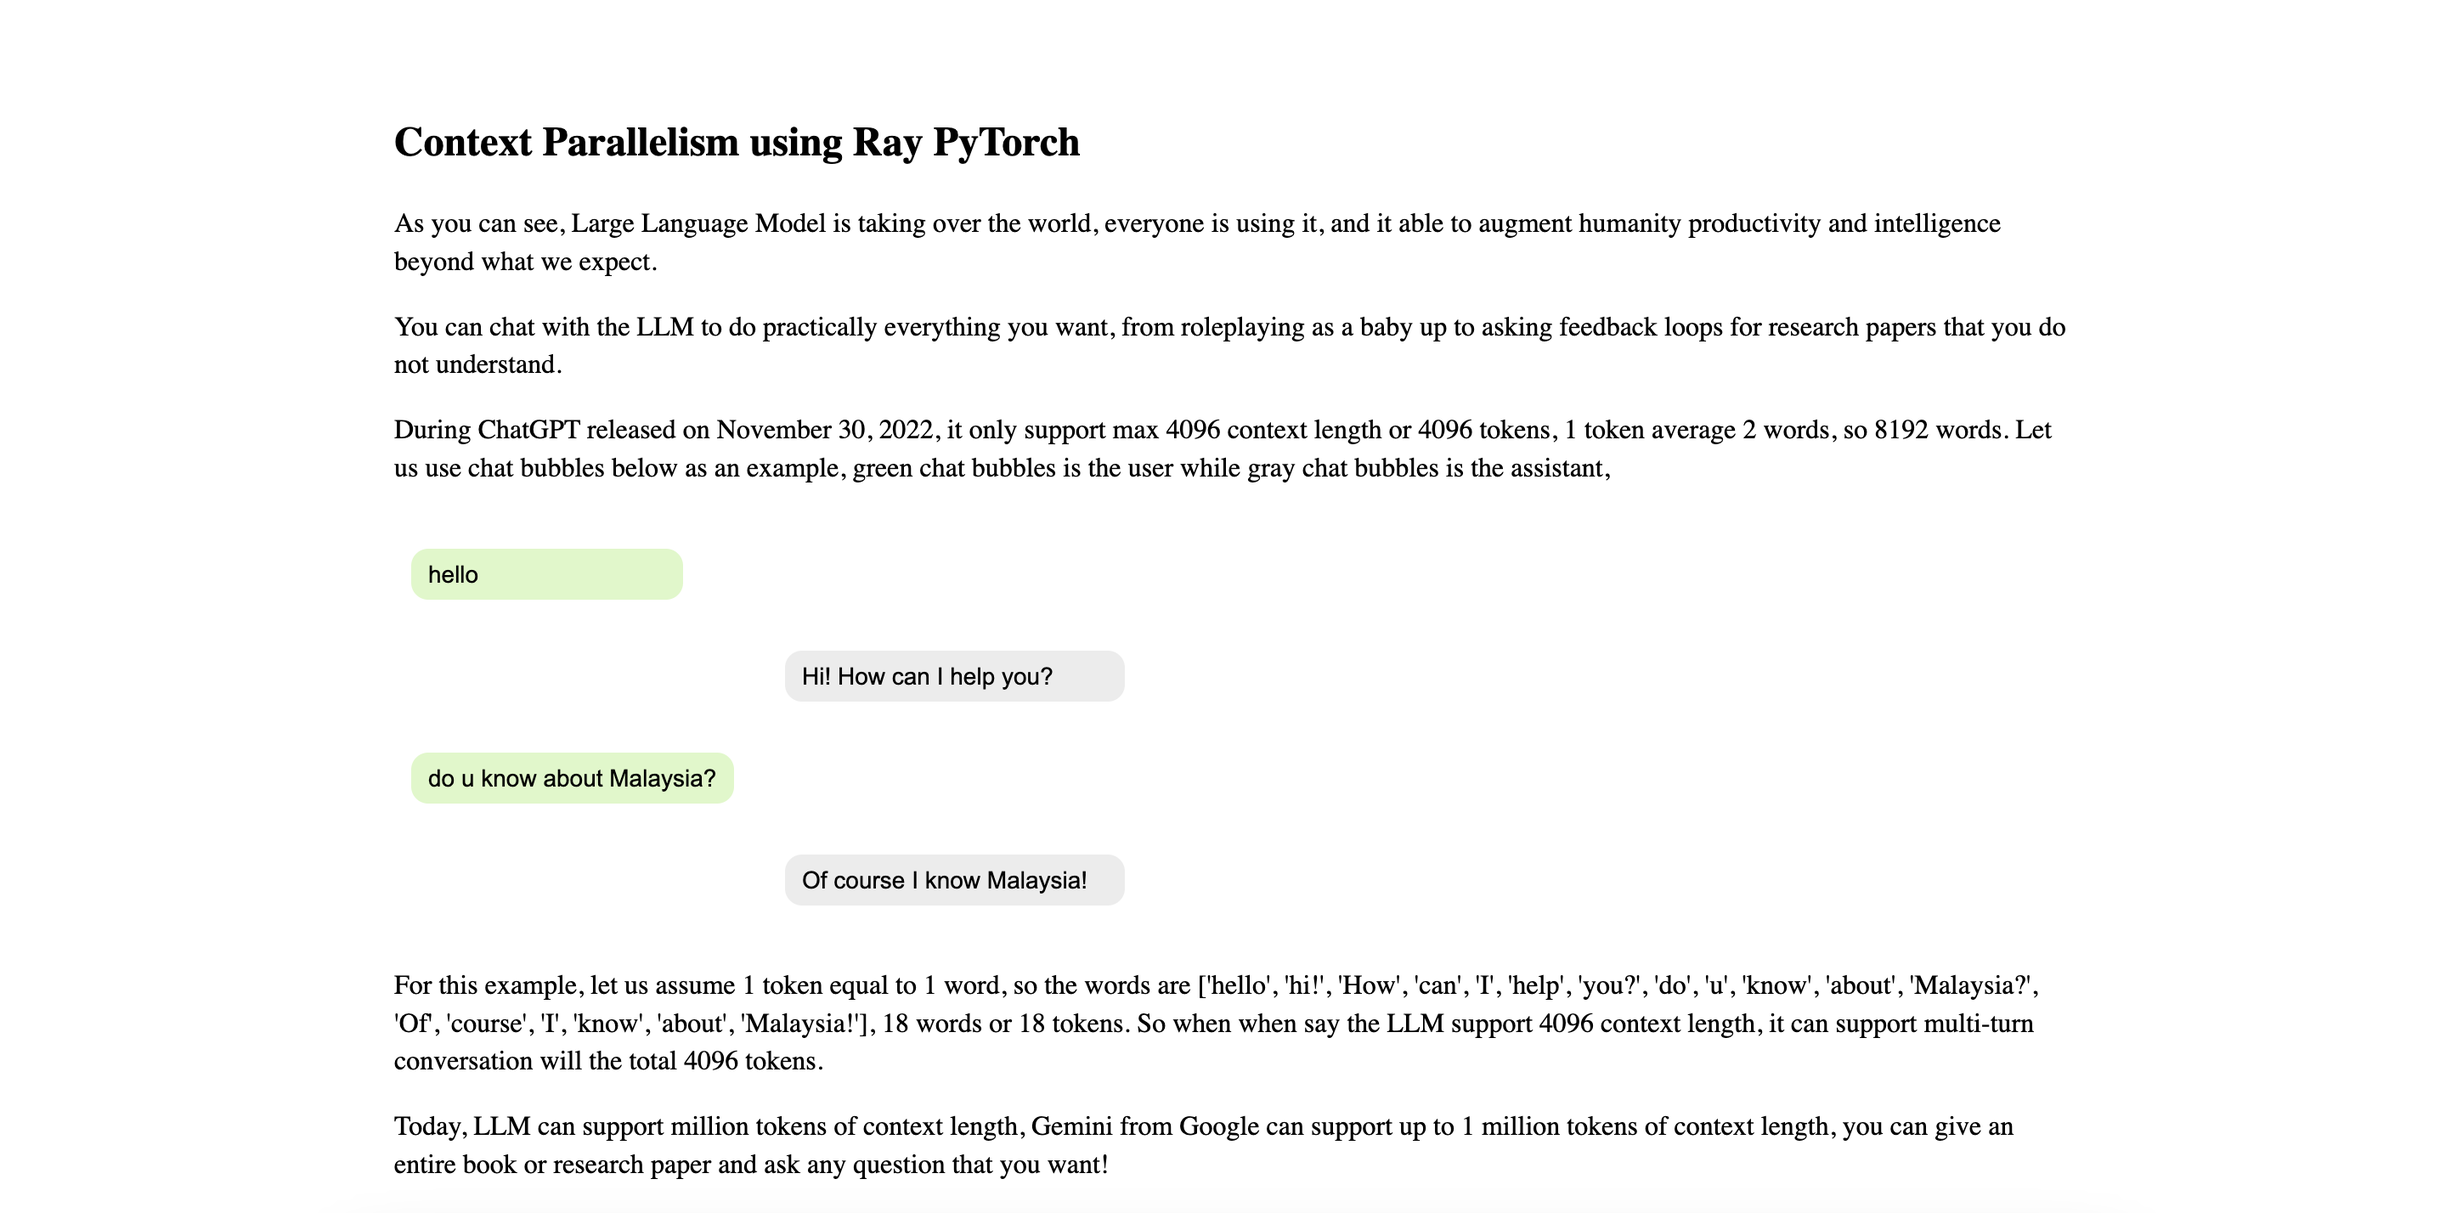
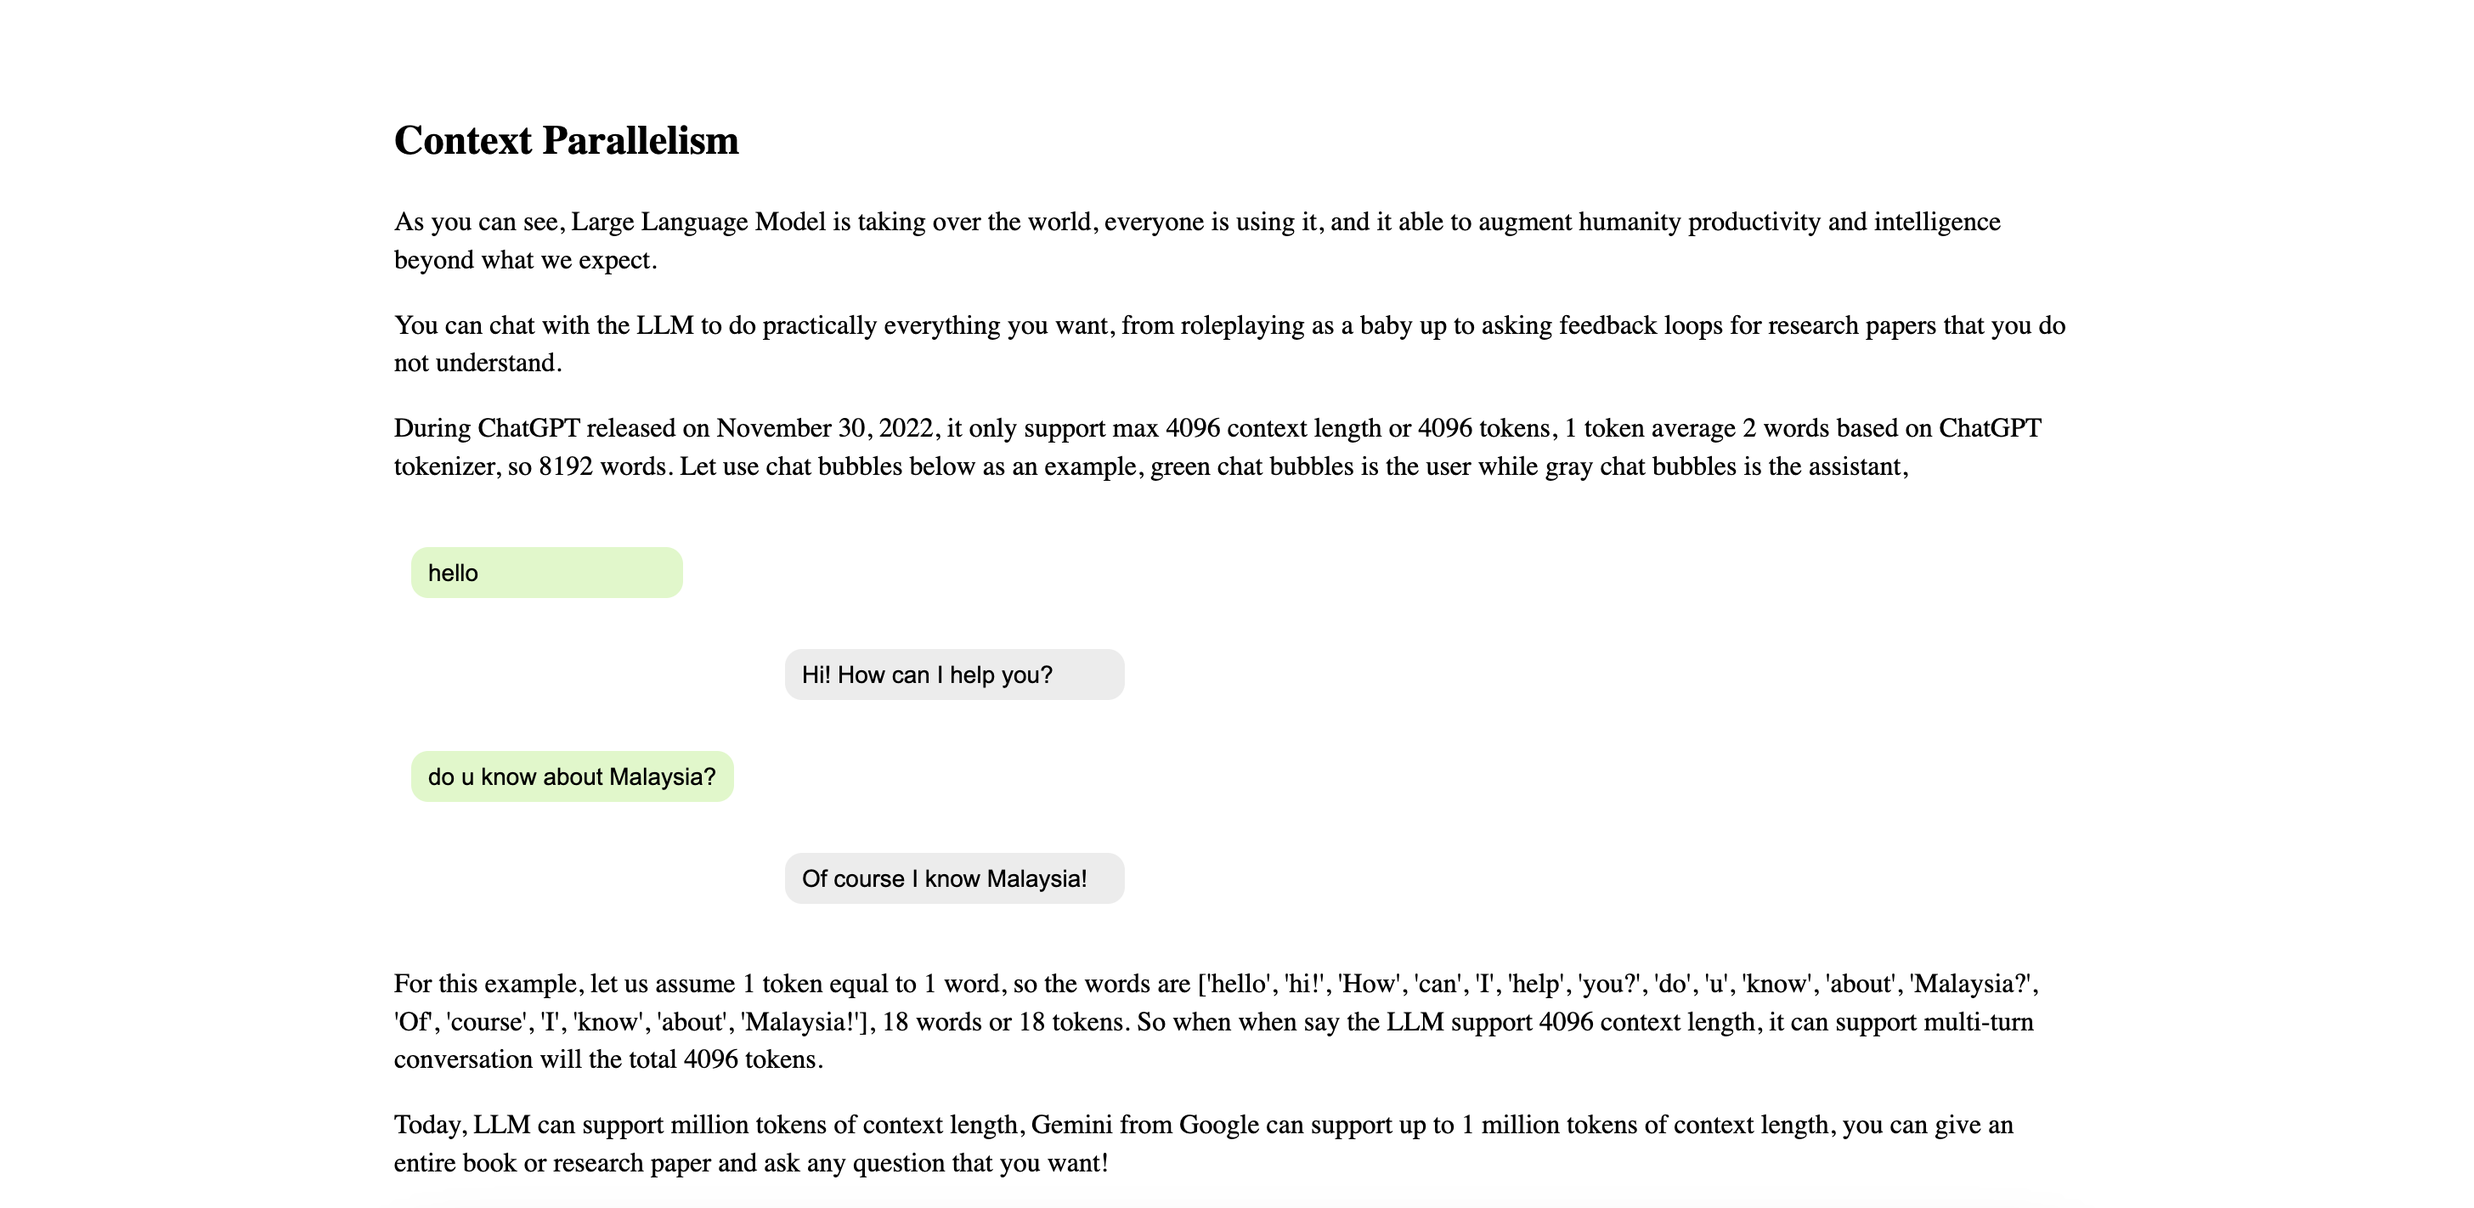
improve

diff --git a/context-parallelism.html b/context-parallelism.html
@@ -4,21 +4,21 @@
   <meta http-equiv="Content-Type" content="text/html; charset=UTF-8">
   <meta name="viewport" content="width=device-width, initial-scale=1.0">
   <!-- HTML Meta Tags -->
-  <title>Malaysia-AI blog Context Parallelism using Ray PyTorch</title>
+  <title>Malaysia-AI blog Context Parallelism</title>
   <meta name="description" content="Malaysia-AI blog Context Parallelism">
 
   <!-- Facebook Meta Tags -->
   <meta property="og:url" content="https://malaysia-ai.org/context-parallelism">
   <meta property="og:type" content="website">
-  <meta property="og:title" content="Malaysia-AI blog Context Parallelism using Ray PyTorch">
-  <meta property="og:description" content="Malaysia-AI blog Context Parallelism using Ray PyTorch">
+  <meta property="og:title" content="Malaysia-AI blog Context Parallelism">
+  <meta property="og:description" content="Malaysia-AI blog Context Parallelism">
   <meta property="og:image" content="https://malaysia-ai.org/context-parallelism.png">
 
   <!-- Twitter Meta Tags -->
   <meta name="twitter:card" content="summary_large_image">
   <meta property="twitter:domain" content="malaysia-ai.org">
   <meta property="twitter:url" content="https://malaysia-ai.org/context-parallelism">
-  <meta name="twitter:title" content="Malaysia-AI blog Context Parallelism using Ray PyTorch">
+  <meta name="twitter:title" content="Malaysia-AI blog Context Parallelismh">
   <meta name="twitter:description" content="Malaysia-AI blog Context Parallelism">
   <meta name="twitter:image" content="https://malaysia-ai.org/context-parallelism.png">
 
@@ -57,7 +57,7 @@
 <body>
 
   <div id="maincontent" style="margin-top: 70px">
-    <h2>Context Parallelism using Ray PyTorch</h2>
+    <h2>Context Parallelism</h2>
     <p>As you can see, Large Language Model is taking over the world, everyone is using it, and it able to augment
       humanity productivity and intelligence beyond what we expect.</p>
     <p>You can chat with the LLM to do practically everything you want, from roleplaying as a baby up to asking feedback
@@ -234,7 +234,7 @@
       either to reduce computation burden and at the same reduce memory consumption or replicating the replica to
       increase the
       size of input to make learning process faster, and Context Parallelism is about
-      how to parallelize the sequence length into multiple GPUs.</p>
+      how to parallelize the sequence length into multiple GPUs. Let say I have 2 GPUs, so the partition size is 2,</p>
     <div style="width: 60%">
       <svg xmlns="http://www.w3.org/2000/svg" viewBox="0 0 600 1000">
         <!-- Original Matrix -->
@@ -321,7 +321,7 @@
     </div>
     <p>So now each GPUs can calculate their own local attention but still coherent with the other local attentions and
       if you gather and combine the local attentions, the combined should be almost the same with the full attention
-      with super super small different.</p>
+      with super super small different, and <b>you save GPU memory is saved by a factor of partition size!</b></p>
 
     <p>If we split the QKV into 2 GPUs, Q = [Q1, Q2], K = [K1, K2], V = [V1, V2], so local attentions,
       Attention1=softmax(Q1K1^T)V1
@@ -330,15 +330,119 @@
     <p><b>Now, how does softmax(Q1K1^T)V1 able to correlate with softmax(Q2K2^T)V2 ?</b> Especially on softmax, because
       softmax required sum of exponents on the hidden dimension.</p>
 
-    <h3>Blockwise Parallel Transformer
-      for Large Context Models</h3>
+    <h3>Blockwise Parallel Transformer for Large Context Models</h3>
     <p>This paper <a href="https://arxiv.org/pdf/2305.19370">https://arxiv.org/pdf/2305.19370</a> shows that we can
-      calculate Attention in partition manner, and when we talk about partition manner, the partitions can be
-      incrementally
-      load from RAM / disk offload by simply loop the partitions and pass to GPU to do the calculation, or split the
-      partitions into multi GPUs.</p>
-    <p>This Attention in partition manner or blocks called Blockwise Attention by the paper.</p>
-    <p>In section 3, it stated Q can split into Bq blocks, and KV split into Bkv blocks.</p>
+      calculate Attention in blockwise manner on multiple devices.</p>
+    <p>And this paper also mentioned `Self-attention can be computed in a blockwise manner without materializing the
+      softmax
+      attention
+      matrix` which already done from <a href="https://arxiv.org/abs/2205.14135">Flash Attention: 2205.14135</a> and <a
+        href="https://arxiv.org/abs/2112.05682">Self-attention does not need o(n2) memory: 2112.05682</a></p>
+    <h4>Flash Attention</h4>
+    <p>"Flash Attention" partitioned QKV into blocks inside the GPU and write in CUDA kernel and optimized the
+      movement
+      between GPU high bandwidth memory (HBM)
+      and GPU on-chip SRAM, become more "io-awareness" by directly manipulating the memory hierarchy using CUDA
+      interface. Flash Attention also
+      calculate the attention using blockwise manner
+      inside CUDA blocks.</p>
+    <img src="/flash-attention.png" width="40%">
+    <br>
+    <img src="/flash-attention-1.png" width="40%">
+    <p>- As you can see there are outer and inner loops, defined as, loop for each KV blocks, nested loop for each Q
+      blocks, and calculate local max and local attention, gather local max to get global max and for each local
+      attention
+      minus with global max to get the global attention.</p>
+    <h4>Self-attention does not need o(n2) memory</h4>
+    <p>While "Self-attention does not need o(n2) memory" write using Jax to compute the blockwise, it is not as
+      efficient as "Flash Attention" because Jax handled all the memories and there is no interface to make it
+      "io-awareness" like "Flash Attention". The implementation,</p>
+    <pre>
+```python
+import functools, jax, math
+from jax import lax
+from jax import numpy as jnp
+
+
+def _query_chunk_attention(query,
+                           key,
+                           value,
+                           key_chunk_size=4096,
+                           precision=lax.Precision.HIGHEST,
+                           dtype=jnp.float32):
+  num_kv, num_heads, k_features = key.shape
+  v_features = value.shape[-1]
+  key_chunk_size = min(key_chunk_size, num_kv)
+  query = query / jnp.sqrt(k_features).astype(dtype)
+
+  @functools.partial(jax.checkpoint, prevent_cse=False)
+  def summarize_chunk(query, key, value):
+    attn_weights = jnp.einsum(
+        'qhd,khd->qhk', query, key, precision=precision).astype(dtype)
+    max_score = jnp.max(attn_weights, axis=-1, keepdims=True)
+    max_score = jax.lax.stop_gradient(max_score)
+    exp_weights = jnp.exp(attn_weights - max_score)
+    exp_values = jnp.einsum(
+        'vhf,qhv->qhf', value, exp_weights, precision=precision).astype(dtype)
+    return (exp_values, exp_weights.sum(axis=-1),
+            max_score.reshape((query.shape[0], num_heads)))
+
+  def chunk_scanner(chunk_idx):
+    key_chunk = lax.dynamic_slice(
+        key, (chunk_idx, 0, 0),
+        slice_sizes=(key_chunk_size, num_heads, k_features))
+    value_chunk = lax.dynamic_slice(
+        value, (chunk_idx, 0, 0),
+        slice_sizes=(key_chunk_size, num_heads, v_features))
+    return summarize_chunk(query, key_chunk, value_chunk)
+
+  chunk_values, chunk_weights, chunk_max = lax.map(
+      chunk_scanner, xs=jnp.arange(0, num_kv, key_chunk_size))
+
+  global_max = jnp.max(chunk_max, axis=0, keepdims=True)
+  max_diffs = jnp.exp(chunk_max - global_max)
+  chunk_values *= jnp.expand_dims(max_diffs, axis=-1)
+  chunk_weights *= max_diffs
+
+  all_values = chunk_values.sum(axis=0)
+  all_weights = jnp.expand_dims(chunk_weights, -1).sum(axis=0)
+  return all_values / all_weights
+
+
+def mefficient_attention(query,
+                         key,
+                         value,
+                         query_chunk_size=1024,
+                         precision=jax.lax.Precision.HIGHEST,
+                         dtype=jnp.float32):
+  num_q, num_heads, q_features = query.shape
+
+  def chunk_scanner(chunk_idx, _):
+    query_chunk = lax.dynamic_slice(
+        query, (chunk_idx, 0, 0),
+        slice_sizes=(min(query_chunk_size, num_q), num_heads, q_features))
+    return (chunk_idx + query_chunk_size,
+            _query_chunk_attention(
+                query_chunk, key, value, precision=precision, dtype=dtype))
+
+  _, res = lax.scan(
+      chunk_scanner,
+      init=0,
+      xs=None,
+      length=math.ceil(num_q / query_chunk_size))
+  return res.reshape(num_q, num_heads, value.shape[-1])
+```</pre>
+    <p>- But basically is the same, loop Q blocks, loop nested KV blocks, and calculate local max and local attention,
+      gather local max to get global max and for each local
+      attention
+      minus with global max to get the global attention.</p>
+    <p>But "Flash Attention" and "Self-attention does not need o(n2) memory" partitioned the QKV into blocks happened
+      inside
+      a single GPU, not for multi-GPUs. And actually, <b>"Blockwise Parallel Transformer for Large Context
+        Models" take inspiration directly from "Self-attention does not need o(n2) memory"</b>, but just do it on
+      multi-GPUs level.</p>
+    <p>In section 3, it stated Q can split into Bq blocks, and KV split into Bkv blocks, same as "Flash Attention" and
+      "Self-attention does not need o(n2) memory".</p>
     <p>- 1. For each query block, the blockwise attention Attention(Qi, Kj, Vj) can be computed by iterating over all
       key-value
       blocks,</p>
@@ -368,6 +472,19 @@
     <div>
       $$
       \mathrm{Attention}(Q_i, K, V) = \bigl[ \exp(Q_i K_j^T - \mathrm{max}_i)~\mathrm{Attention}(Q_i, K_j, V_j)
+      \bigr]_{j=1}^{B_{kv}}
+      $$
+    </div>
+    <p>- 4. But I believe there is a mistake to calculate <span>\(\mathrm{Attention}(Q_i, K, V)\),</span></p>
+    <p>-- i. <span>\(Q_i K_j^T\)</span> shape is [L, L] while <span>\(\mathrm{Attention}(Q_i, K, V)\)</span> shape is
+      [L, dim], so we cannot do hadamard product.</p>
+    <p>-- ii. <span>It should be \(\exp(\max(Q_i K_j^T) - \mathrm{max}_i)\), so the shape will become [L], so when we do
+        hadamard product, [L] o [L, dim], PyTorch will automatically repeat [L], [L, L, ...] become [L, dim] then we can
+        do [L, dim] o [L, dim].</span></p>
+    <p>--- iii. Actual equation should be, </p>
+    <div>
+      $$
+      \mathrm{Attention}(Q_i, K, V) = \bigl[ \exp(\max(Q_i K_j^T) - \mathrm{max}_i)~\mathrm{Attention}(Q_i, K_j, V_j)
       \bigr]_{j=1}^{B_{kv}}
       $$
     </div>
@@ -410,13 +527,13 @@
 
         <!-- Scaled block attentions -->
         <rect x="100" y="550" width="180" height="60" fill="#00ffff" stroke="#000000" stroke-width="2" />
-        <text x="190" y="575" text-anchor="middle" font-family="Arial, sans-serif" font-size="12">exp(QiK0^T -
+        <text x="190" y="575" text-anchor="middle" font-family="Arial, sans-serif" font-size="12">exp(max(Qi,K0) -
           global_max)</text>
         <text x="190" y="595" text-anchor="middle" font-family="Arial, sans-serif" font-size="12">*
           Attention(Qi,K0,V0)</text>
 
         <rect x="320" y="550" width="180" height="60" fill="#00ffff" stroke="#000000" stroke-width="2" />
-        <text x="410" y="575" text-anchor="middle" font-family="Arial, sans-serif" font-size="12">exp(QiK1^T -
+        <text x="410" y="575" text-anchor="middle" font-family="Arial, sans-serif" font-size="12">exp(max(Qi,K1) -
           global_max)</text>
         <text x="410" y="595" text-anchor="middle" font-family="Arial, sans-serif" font-size="12">*
           Attention(Qi,K1,V1)</text>
@@ -472,24 +589,98 @@
     <p>-- ii. Store maxj in maxi, maxi = [maxj0, maxj1, ...] and Attentionj in Attentioni, Attentioni = [Attentionj0,
       Attentionj1, ...]</p>
     <p>- 2. Calculate max_maxi = max(maxi), loop again KV blocks, j,</p>
-    <p>-- i. Calculate blockwisej = exp(QiKj^T - max_maxi) Attentionij, and store it in blockwisei, blockwisei =
+    <p>-- i. Calculate blockwisej = exp(maxj - max_maxi) x Attentionj, and store it in blockwisei, blockwisei =
       [blockwisej0, blockwisej1, ...]</p>
-    <p>-- ii. Sum, now you got Attention(Qi,K,V)!</p>
+    <p>-- ii. Sum blockwisei, now you got Attention(Qi,K,V)!</p>
     <h3>PyTorch code using Loop</h3>
     <p>To test if it is working, we have to compare by doing full attention vs blockwise attention, after that we
       compare
       the full attention on the first partition size with the first blockwise attention,</p>
-    <h3>Now why it is working?</h3>
+    <pre>
+```python
+import torch
+import torch.nn.functional as F
+
+Q = torch.randn(100, 128).cuda().to(torch.bfloat16)
+K = torch.randn(100, 128).cuda().to(torch.bfloat16)
+V = torch.randn(100, 128).cuda().to(torch.bfloat16)
+
+full_attention = torch.matmul(F.softmax(torch.matmul(Q, K.T), dim = -1), V)
+
+chunk_size = 2
+Q_blocks = torch.chunk(Q, chunk_size)
+K_blocks = torch.chunk(K, chunk_size)
+V_blocks = torch.chunk(V, chunk_size)
+
+Q_block = Q_blocks[0]
+block_attentions = []
+block_maxes = []
+
+for K_block, V_block in zip(K_blocks, V_blocks):
+    # Compute attention scores
+    scores = torch.matmul(Q_block, K_block.T)
+
+    # Compute block-wise max
+    block_max = scores.max(dim=-1, keepdim=True)[0]
+    block_maxes.append(block_max)
+
+    # Compute block-wise attention
+    block_attention = torch.matmul(F.softmax(scores - block_max, dim=-1), V_block)
+    block_attentions.append(block_attention)
+
+# Compute global max
+global_max = torch.max(torch.cat(block_maxes, dim=-1), dim=-1, keepdim=True)[0]
+
+# Scale and combine block attentions
+scaled_attentions = [
+    torch.exp(block_max - global_max) * block_attention
+    for block_max, block_attention in zip(block_maxes, block_attentions)
+]
+
+output = sum(scaled_attentions)
+```</pre>
+    <p>Exact match signs,</p>
+    <pre>
+```python
+(torch.sign(full_attention[:output.shape[0]]) == torch.sign(output)).float().mean()
+```</pre>
+    <p>Output,</p>
+    <pre>
+```text
+tensor(0.9958, device='cuda:0')
+```</pre>
+    <p>Check different on `argmax(-1)`,</p>
+    <pre>
+```python
+print(full_attention[:output.shape[0]].argmax(-1), output.argmax(-1))
+```</pre>
+    <p>Output,</p>
+    <pre>
+```text
+tensor([122,  84,  27,  20,  98,  60,  36,  65,  39,  48,  31,  91,  48,  69,
+         80,  98,  59, 121,   0,  24,  42,  67,  76,  58,  36,  34,  79,   1,
+         57,  99,   9,  47,  77, 110,   9,   9, 119,   9,  34,  27,   6,  37,
+        104, 121, 103, 123,   0,  56,  67, 104], device='cuda:0') 
+
+tensor([122,  84,  27,  20,  98,  60,  36,  65,  39,  48,  31,  91,  48,  69,
+         80,  98,  59, 121,   0,  24,  42,  39,  76,  58,  36,  34,  79,   1,
+         57,  40,   9,  47,  77, 110,   9,   9, 119,   9,  34,  27,   6,  37,
+        104, 121, 103, 123,   0,  56,  67, 104], device='cuda:0')
+```</pre>
+    <p>You can continue to run for Q blocks or Bq blocks. <b>As you can see, this blockwise is exactly as
+        "Self-attention does not need o(n2) memory", just in PyTorch.</b></p>
+
+
     <h3>Use PyTorch distributed</h3>
-    <p>Because right now we only got 2 machines with each 1 GPU, so we have to do multi-nodes to use 2 GPUs, and we are
-      going to use
-      Ray
-      framework for Torch Elastic Distributed, and we already explained at <a
-        href="https://malaysia-ai.org/2d-parallelism-ray">https://malaysia-ai.org/2d-parallelism-ray</a>, <b>TLDR,
-        basically Ray just a wrapper around Torch Elastic Distributed same like `torchrun` command.</b></p>
     <p>Now we have to convert from loop execution to parallel execution using Torch Elastic Distributed, for me, if you
       want to do parallel execution, at first you must test it using loop execution, if it works, convert it to parallel
       execution.</p>
+
+    <h3>Improvement</h3>
+    <p><a href="https://arxiv.org/abs/2310.01889">Ring Attention: 2310.01889</a> from the same authors to improve this
+      Blockwise Attention by simply reduce the communication between nodes by using ring communication.</p>
+    <p>And recently there is <a href="https://arxiv.org/abs/2408.04093">Tree Attention: 2408.04093</a> to improve Ring
+      Attention by aggregating the max(KV.T) on tree hierarchy, which is only make sense for multi-nodes.</p>
 
     <p>---</p>
     <p>thats all, give some love to <a href="https://x.com/aisyahhhrzk" target="_blank">Aisyah Razak.</a></p>
